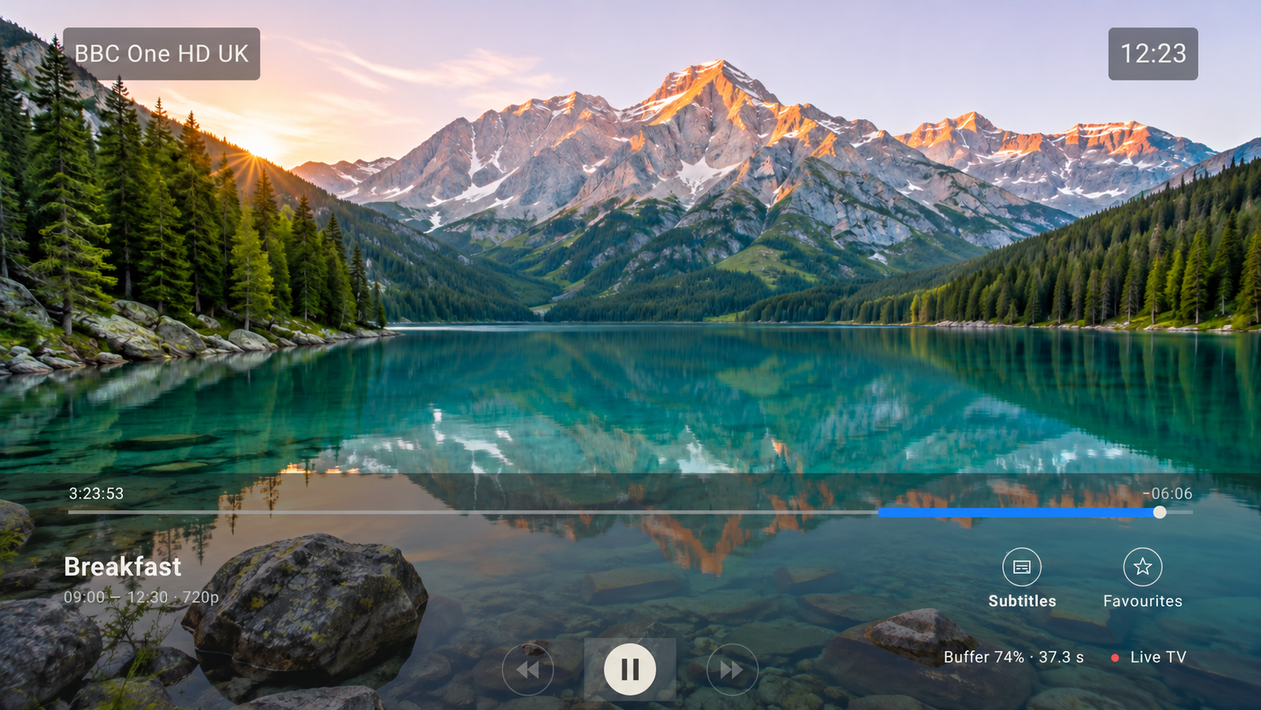
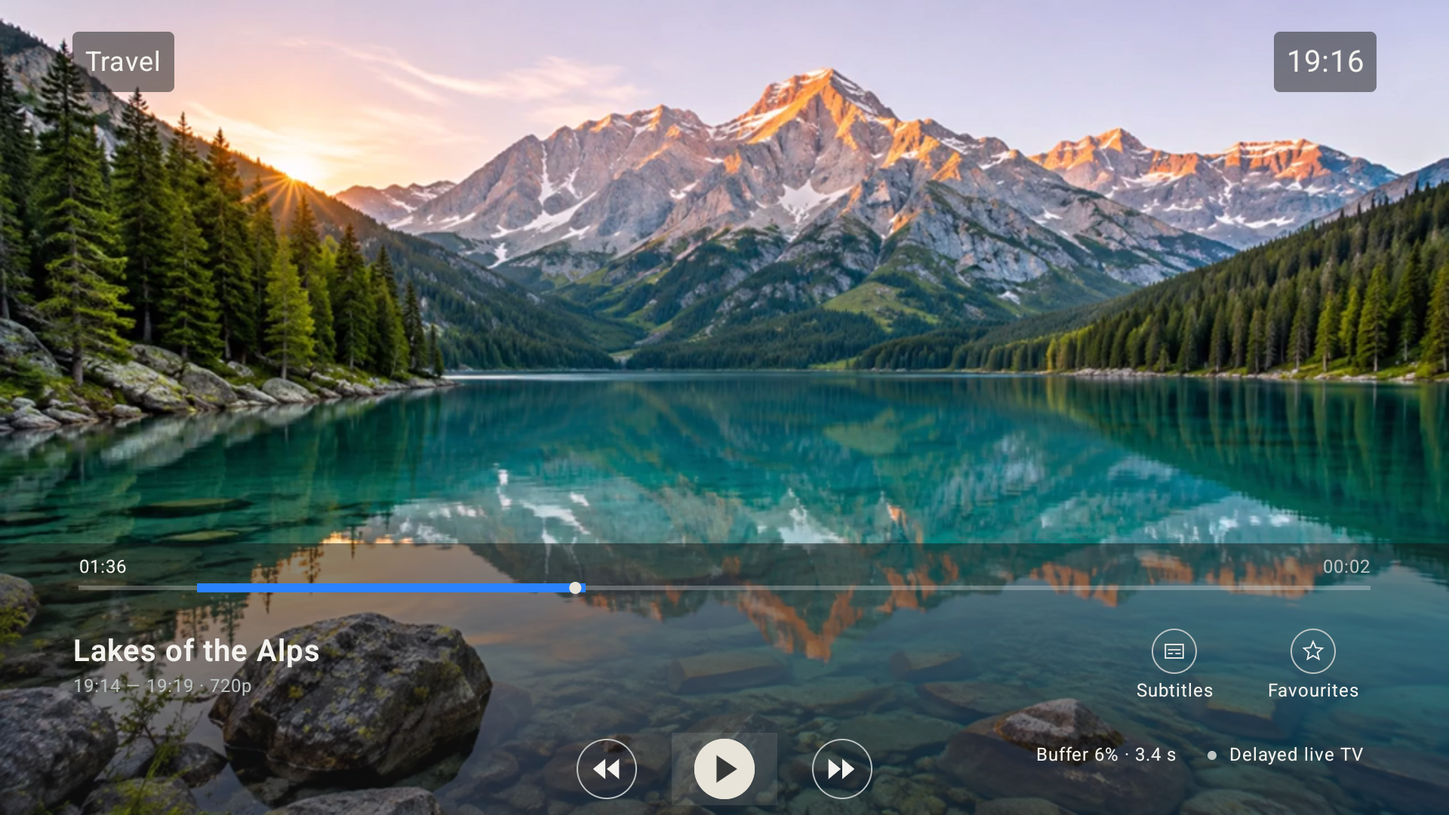
Update site for 0.9.3 with recent channels and timeline seeking

diff --git a/site/app.js b/site/app.js
@@ -20,25 +20,27 @@ const icons = {
 const icon = name => `<svg viewBox="0 0 24 24" fill="none" stroke="currentColor" stroke-width="1.6" stroke-linecap="round" stroke-linejoin="round" aria-hidden="true">${icons[name] || icons.screen}</svg>`;
 const content = {
  ru: {
- title:'TV Wave — ваши каналы на большом экране', subtitle:'Плеер для вашего телевизора', guide:'Обзор приложения', navSearch:'Найти раздел…', navEmpty:'Раздел не найден', navGroups:['Знакомство','Как пользоваться'], nav:['Обзор','Скриншоты','Возможности','Начало работы','Управление пультом','Резервная копия','Вопросы и ответы','Скачать приложение'], open:'Открытый исходный код', sideNote:'Свой плейлист. Свой телевизор.', menu:'Меню', platform:'ANDROID TV / GOOGLE TV', hero:'Ваши каналы.<br><span>На большом экране.</span>', lead:'TV Wave — IPTV-плеер с телегидом, паузой и перемоткой эфира, архивом передач и управлением с пульта. Подключите свой плейлист и выбирайте, что смотреть.', download:'Скачать APK', explore:'Посмотреть интерфейс', downloadNote:'Бесплатно · универсальный APK · без аккаунта TV Wave', tabs:['Телегид','Плеер','Первый запуск'], galleryHint:'Нажмите на экран, чтобы увеличить', captions:['Каналы, программа передач и живое видео — на одном экране.','Пауза, перемотка, субтитры и избранное под рукой.','Добавьте плейлист или восстановите настройки из копии.'], enlarge:'Увеличить скриншот', close:'Закрыть', notice:'TV Wave не содержит каналов и подписок. Для просмотра нужен ваш плейлист и право доступа к его содержимому.', featuresTitle:'Всё, что нужно для просмотра', featuresMeta:'Для управления нужен только пульт.', features:[['grid','Телегид рядом с эфиром','Читайте описание и листайте расписание, пока канал продолжает играть в маленьком окне.'],['archive','Вернуться к пропущенному','Открывайте запись, начинайте передачу сначала и возвращайтесь в эфир. Архив должен поддерживаться вашим провайдером.'],["pause","Пауза и перемотка эфира","Timeshift сохраняет часть трансляции на телевизоре. Ставьте эфир на паузу и перематывайте сохранённый участок шагами по 5 секунд."],['search','Поиск каналов и передач','Ищите по названию, повторяйте недавние запросы и смотрите, доступна ли найденная передача в записи.'],["bell","Напоминания о передачах","Выберите будущую передачу в телегиде или поиске. Пока TV Wave открыт, напоминание подскажет, когда она начнётся, и поможет перейти на канал."],['phone','Передача ссылок с телефона','Отсканируйте QR-код на телевизоре и отправьте адрес плейлиста или EPG. Телефон и ТВ должны быть в одной сети.'],['settings','Интерфейс под вас','Настройте масштаб, выберите язык, добавьте любимые каналы в избранное. Все действия доступны с пульта.'],["grid","Телепрограмма и актуальные каналы","Подключите свои источники EPG, задайте приоритет и соответствия каналов. Расписание и плейлисты по ссылке обновляются вместе; отдельный плейлист можно обновить вручную."]], startTitle:'От установки до первого канала', startIntro:'Понадобятся Android TV или приставка, интернет и плейлист вашего IPTV-провайдера.', steps:[['Установите TV Wave','Скачайте APK, перенесите на телевизор и откройте файл для установки. При первом запуске выберите язык.'],['Добавьте плейлист','Вставьте ссылку M3U/M3U8, выберите файл или передайте адрес с телефона по QR-коду.'],['Подключите телепрограмму','Добавьте адрес XMLTV или XMLTV.GZ в настройках EPG. После загрузки расписание появится рядом с каналами.']], remoteTitle:'Уже знакомый вам пульт', remoteIntro:'Стрелки, OK и «Назад». Не нужно подключать мышь или разбираться в жестах.', remoteRows:[['↑ ↓','Выбрать канал или пункт меню'],['← →','Перейти между разделами и передачами'],['OK','Открыть выбранное или начать просмотр'],['Назад','Вернуться к предыдущему экрану']], backupEyebrow:'Резервная копия', backupTitle:'Настроили один раз.<br>Сохранили в копию.', backupText:'Перенесите настройки на другой телевизор или восстановите их после переустановки. Резервную копию можно открыть сразу при первом запуске.', backupNote:'Расписание передач загрузится заново. История поиска, список напоминаний и видео из буфера Timeshift в копию не входят.', backupItems:['Плейлисты','Адреса телепрограмм','Избранное и настройки','Ручные соответствия EPG'], faqTitle:'Перед установкой', faqs:[['Здесь уже есть телеканалы?','Нет. TV Wave — плеер для ваших источников. Каналы, доступ к ним и архив предоставляет ваш IPTV-провайдер.'],["Чем Timeshift отличается от архива?","Timeshift временно сохраняет эфир на телевизоре и позволяет вернуться только к тому, что накопилось во время просмотра. Размер буфера — от 256 МБ до 2 ГБ; при заполнении удаляются старые фрагменты. При смене канала или завершении просмотра буфер очищается. Для более ранних передач нужен архив провайдера. Если поток не поддерживает Timeshift, приложение продолжает прямой эфир."],['Почему архив доступен не у всех передач?','Наличие и срок хранения записей зависят от провайдера и канала. Даже если канал поддерживает архив, отдельная запись может быть недоступна на сервере.'],["Зачем приложению доступ к файлам?","Он нужен для выбора плейлиста из файла, сохранения и восстановления резервных копий. Когда TV Wave запросит разрешение, нажмите «Разрешить доступ», предоставьте его в системном окне или настройках Android и вернитесь в приложение."],['Как обновлять приложение?','Есть два способа: скачать tvwave.apk из GitHub Releases и открыть его на телевизоре или перейти в «Настройки → Обновление TV Wave», проверить наличие новой версии и нажать «Обновить». Подтвердите установку в Android. При обновлении плейлисты и настройки сохраняются.'],['Можно ли добавить другой язык?','Да. Переводы хранятся в отдельных JSON-файлах. Скопируйте английский перевод, переведите строки и предложите изменение в репозитории на GitHub.']], downloadTitle:'Попробуйте на своём ТВ', downloadText:'Скачайте последнюю версию из GitHub Releases. Один APK для телевизоров и приставок на Android.', releases:'Все версии', footer:'TV Wave · IPTV-плеер с открытым кодом', issues:'Сообщить об ошибке', skip:'К содержимому'
+ title:'TV Wave — ваши каналы на большом экране', subtitle:'Плеер для вашего телевизора', guide:'Обзор приложения', navSearch:'Найти раздел…', navEmpty:'Раздел не найден', navGroups:['Знакомство','Как пользоваться'], nav:['Обзор','Скриншоты','Возможности','Начало работы','Управление пультом','Резервная копия','Вопросы и ответы','Скачать приложение'], open:'Открытый исходный код', sideNote:'Свой плейлист. Свой телевизор.', menu:'Меню', platform:'ANDROID TV / GOOGLE TV', hero:'Ваши каналы.<br><span>На большом экране.</span>', lead:'TV Wave — IPTV-плеер с телегидом, паузой и перемоткой эфира, архивом передач и управлением с пульта. Подключите свой плейлист и выбирайте, что смотреть.', download:'Скачать APK', explore:'Посмотреть интерфейс', downloadNote:'Бесплатно · универсальный APK · без аккаунта TV Wave', tabs:['Телегид','Плеер','Первый запуск'], galleryHint:'Нажмите на экран, чтобы увеличить', captions:['Каналы, программа передач и живое видео — на одном экране.','Пауза, перемотка, субтитры и избранное под рукой.','Добавьте плейлист или восстановите настройки из копии.'], enlarge:'Увеличить скриншот', close:'Закрыть', notice:'TV Wave не содержит каналов и подписок. Для просмотра нужен ваш плейлист и право доступа к его содержимому.', featuresTitle:'Всё, что нужно для просмотра', featuresMeta:'Для управления нужен только пульт.', features:[['grid','Телегид рядом с эфиром','Читайте описание и листайте расписание, пока канал продолжает играть в маленьком окне.'],['archive','Вернуться к пропущенному','Открывайте запись, начинайте передачу сначала и возвращайтесь в эфир. Архив должен поддерживаться вашим провайдером.'],["pause","Пауза и перемотка эфира","Ставьте эфир на паузу. На шкале можно выбрать момент с шагом в минуту, а кнопками перемотки — сдвинуться на пять секунд."],['screen','Недавние каналы','Нажмите ↓ во время просмотра, чтобы выбрать один из недавно открытых каналов прямо поверх эфира.'],['search','Поиск каналов и передач','Ищите по названию, повторяйте недавние запросы и смотрите, доступна ли найденная передача в записи.'],["bell","Напоминания о передачах","Выберите будущую передачу в телегиде или поиске. Пока TV Wave открыт, напоминание подскажет, когда она начнётся, и поможет перейти на канал."],['phone','Передача ссылок с телефона','Отсканируйте QR-код на телевизоре и отправьте адрес плейлиста или EPG. Телефон и ТВ должны быть в одной сети.'],['settings','Интерфейс под вас','Настройте масштаб, выберите язык, добавьте любимые каналы в избранное. Все действия доступны с пульта.'],["grid","Телепрограмма и актуальные каналы","Подключите свои источники EPG, задайте приоритет и соответствия каналов. Расписание и плейлисты по ссылке обновляются вместе; отдельный плейлист можно обновить вручную."]], startTitle:'От установки до первого канала', startIntro:'Понадобятся Android TV или приставка, интернет и плейлист вашего IPTV-провайдера.', steps:[['Установите TV Wave','Скачайте APK, перенесите на телевизор и откройте файл для установки. При первом запуске выберите язык.'],['Добавьте плейлист','Вставьте ссылку M3U/M3U8, выберите файл или передайте адрес с телефона по QR-коду.'],['Подключите телепрограмму','Добавьте адрес XMLTV или XMLTV.GZ в настройках EPG. После загрузки расписание появится рядом с каналами.']], remoteTitle:'Уже знакомый вам пульт', remoteIntro:'Стрелки, OK и «Назад». Не нужно подключать мышь или разбираться в жестах.', remoteRows:[["↑ ↓","В телегиде выбирают канал. В полноэкранном режиме со скрытой панелью ↓ открывает недавние каналы, ↑ оставляет эфир на экране."],["← →","В недавних каналах выбирают карточку. При редактировании позиции на шкале сдвигают её на одну минуту."],["ОК","Открывает панель плеера, включает выбранный канал или подтверждает переход на шкале."],["Назад","Закрывает список недавних каналов. При выборе позиции на шкале отменяет перемотку."],["↓","Со шкалы переводит фокус на паузу. С нижнего ряда кнопок открывает недавние каналы."],["Долгое ОК","На карточке недавнего канала открывает подтверждение удаления из истории."]], backupEyebrow:'Резервная копия', backupTitle:'Настроили один раз.<br>Сохранили в копию.', backupText:'Перенесите настройки на другой телевизор или восстановите их после переустановки. Резервную копию можно открыть сразу при первом запуске.', backupNote:'Расписание передач загрузится заново. История поиска, список напоминаний и видео из буфера Timeshift в копию не входят.', backupItems:['Плейлисты','Адреса телепрограмм','Избранное и настройки','Ручные соответствия EPG'], faqTitle:'Перед установкой', faqs:[['Здесь уже есть телеканалы?','Нет. TV Wave — плеер для ваших источников. Каналы, доступ к ним и архив предоставляет ваш IPTV-провайдер.'],["Чем Timeshift отличается от архива?","Timeshift временно сохраняет эфир на телевизоре и позволяет вернуться только к тому, что накопилось во время просмотра. Размер буфера — от 256 МБ до 2 ГБ; при заполнении удаляются старые фрагменты. При смене канала или завершении просмотра буфер очищается. Для более ранних передач нужен архив провайдера. Если поток не поддерживает Timeshift, приложение продолжает прямой эфир."],['Почему архив доступен не у всех передач?','Наличие и срок хранения записей зависят от провайдера и канала. Даже если канал поддерживает архив, отдельная запись может быть недоступна на сервере.'],["Зачем приложению доступ к файлам?","Он нужен для выбора плейлиста из файла, сохранения и восстановления резервных копий. Когда TV Wave запросит разрешение, нажмите «Разрешить доступ», предоставьте его в системном окне или настройках Android и вернитесь в приложение."],['Как обновлять приложение?','Есть два способа: скачать tvwave.apk из GitHub Releases и открыть его на телевизоре или перейти в «Настройки → Обновление TV Wave», проверить наличие новой версии и нажать «Обновить». Подтвердите установку в Android. При обновлении плейлисты и настройки сохраняются.'],['Можно ли добавить другой язык?','Да. Переводы хранятся в отдельных JSON-файлах. Скопируйте английский перевод, переведите строки и предложите изменение в репозитории на GitHub.']], downloadTitle:'Попробуйте на своём ТВ', downloadText:'Скачайте последнюю версию из GitHub Releases. Один APK для телевизоров и приставок на Android.', releases:'Все версии', footer:'TV Wave · IPTV-плеер с открытым кодом', issues:'Сообщить об ошибке', skip:'К содержимому'
  },
  en: {
- title:'TV Wave — your channels on the big screen', subtitle:'A player for your television', guide:'App overview', navSearch:'Find a section…', navEmpty:'No sections found', navGroups:['Discover','Get started'], nav:['Overview','Screenshots','Features','Getting started','Remote control','Backup','Questions & answers','Download'], open:'Open source', sideNote:'Your playlist. Your television.', menu:'Menu', platform:'ANDROID TV / GOOGLE TV', hero:'Your channels.<br><span>On the big screen.</span>', lead:'TV Wave is an IPTV player with a programme guide, live TV pause and rewind, catch-up and remote control navigation. Add your playlist and choose what to watch.', download:'Download APK', explore:'Explore the interface', downloadNote:'Free · universal APK · no TV Wave account', tabs:['TV guide','Player','First launch'], galleryHint:'Click the screen to enlarge', captions:['Channels, programme listings and live video, together.','Pause, seek, subtitles and favourites within reach.','Add a playlist or restore your settings from a backup.'], enlarge:'Enlarge screenshot', close:'Close', notice:'TV Wave does not include channels or subscriptions. You need your own playlist and permission to access its content.', featuresTitle:'Made for watching TV', featuresMeta:'All you need is your remote.', features:[['grid','Browse while you watch','Read descriptions and explore the schedule while your channel keeps playing in a small preview.'],['archive','Catch up on missed shows','Play a recording, restart a programme or return to live TV. Catch-up requires support from your provider.'],["pause","Pause and rewind live TV","Timeshift stores part of the broadcast on your TV. Pause live playback and seek through the saved range in 5-second steps."],['search','Search channels and programmes','Search by name, repeat recent searches and see whether a programme is available as a recording.'],["bell","Programme reminders","Choose an upcoming show in the guide or search. While TV Wave is open, a reminder lets you know it is about to start and offers a shortcut to the channel."],['phone','Send links from your phone','Scan the QR code on your TV and send a playlist or EPG URL. Both devices need to be on the same network.'],['settings','Make it comfortable','Adjust the interface scale, choose a language and save favourite channels. Navigate everything with your remote.'],["grid","Programme guides and channel updates","Add your own EPG sources, set their priority and match channels. Listings and URL playlists refresh together; you can also update an individual playlist manually."]], startTitle:'From installation to your first channel', startIntro:'You need an Android TV or TV box, an internet connection and a playlist from your IPTV provider.', steps:[['Install TV Wave','Download the APK, transfer it to your TV and open it to install. Choose your language on first launch.'],['Add your playlist','Paste an M3U/M3U8 URL, choose a file or send the address from your phone using a QR code.'],['Connect a programme guide','Add an XMLTV or XMLTV.GZ URL in the EPG settings. Once loaded, listings appear next to your channels.']], remoteTitle:'The remote you already know', remoteIntro:'Arrow keys, OK and Back. No mouse to connect and no gestures to learn.', remoteRows:[['↑ ↓','Choose a channel or menu item'],['← →','Move between sections and programmes'],['OK','Open a selection or start watching'],['Back','Return to the previous screen']], backupEyebrow:'Backup & restore', backupTitle:'Set it up once.<br>Keep a backup.', backupText:'Move your settings to another TV or restore them after reinstalling. You can open a backup directly on first launch.', backupNote:'Programme listings are downloaded again. Search history, programme reminders and Timeshift video are not included in backups.', backupItems:['Playlists','Programme guide URLs','Favourites and settings','Manual EPG matches'], faqTitle:'Before you install', faqs:[['Are TV channels included?','No. TV Wave is a player for sources you add yourself. Your IPTV provider supplies the channels, access and catch-up service.'],["How is Timeshift different from catch-up?","Timeshift temporarily stores live video on your TV, so you can only rewind footage collected while watching. The buffer holds 256 MB to 2 GB; older segments are removed as it fills. It is cleared when you switch channels or finish watching. Earlier programmes require your provider’s catch-up service. If a stream does not support Timeshift, the app continues live playback."],['Why are some recordings unavailable?','Availability and retention depend on your provider and the channel. Even when a channel supports catch-up, a particular recording may be unavailable on the server.'],["Why does the app need file access?","File access is needed to select a playlist file and to save or restore backups. When TV Wave asks for permission, choose Allow access, grant it in the Android dialog or settings, then return to the app."],['How do I update the app?','Download tvwave.apk from GitHub Releases and open it on your TV, or go to Settings → TV Wave updates, check for a new version and choose Update. Confirm installation in Android. Your playlists and settings are preserved when updating.'],['Can I contribute a translation?','Yes. Translations are stored in individual JSON files. Copy the English translation, translate the strings and propose your changes on GitHub.']], downloadTitle:'Try it on your TV', downloadText:'Get the latest version from GitHub Releases. One APK for Android televisions and TV boxes.', releases:'All releases', footer:'TV Wave · an open-source IPTV player', issues:'Report an issue', skip:'Skip to content'
+ title:'TV Wave — your channels on the big screen', subtitle:'A player for your television', guide:'App overview', navSearch:'Find a section…', navEmpty:'No sections found', navGroups:['Discover','Get started'], nav:['Overview','Screenshots','Features','Getting started','Remote control','Backup','Questions & answers','Download'], open:'Open source', sideNote:'Your playlist. Your television.', menu:'Menu', platform:'ANDROID TV / GOOGLE TV', hero:'Your channels.<br><span>On the big screen.</span>', lead:'TV Wave is an IPTV player with a programme guide, live TV pause and rewind, catch-up and remote control navigation. Add your playlist and choose what to watch.', download:'Download APK', explore:'Explore the interface', downloadNote:'Free · universal APK · no TV Wave account', tabs:['TV guide','Player','First launch'], galleryHint:'Click the screen to enlarge', captions:['Channels, programme listings and live video, together.','Pause, seek, subtitles and favourites within reach.','Add a playlist or restore your settings from a backup.'], enlarge:'Enlarge screenshot', close:'Close', notice:'TV Wave does not include channels or subscriptions. You need your own playlist and permission to access its content.', featuresTitle:'Made for watching TV', featuresMeta:'All you need is your remote.', features:[['grid','Browse while you watch','Read descriptions and explore the schedule while your channel keeps playing in a small preview.'],['archive','Catch up on missed shows','Play a recording, restart a programme or return to live TV. Catch-up requires support from your provider.'],["pause","Pause and rewind live TV","Pause live TV. Move through the recording by one minute on the timeline or by five seconds with the skip buttons."],['screen','Recent channels','Press Down while watching to choose a recently watched channel without leaving fullscreen playback.'],['search','Search channels and programmes','Search by name, repeat recent searches and see whether a programme is available as a recording.'],["bell","Programme reminders","Choose an upcoming show in the guide or search. While TV Wave is open, a reminder lets you know it is about to start and offers a shortcut to the channel."],['phone','Send links from your phone','Scan the QR code on your TV and send a playlist or EPG URL. Both devices need to be on the same network.'],['settings','Make it comfortable','Adjust the interface scale, choose a language and save favourite channels. Navigate everything with your remote.'],["grid","Programme guides and channel updates","Add your own EPG sources, set their priority and match channels. Listings and URL playlists refresh together; you can also update an individual playlist manually."]], startTitle:'From installation to your first channel', startIntro:'You need an Android TV or TV box, an internet connection and a playlist from your IPTV provider.', steps:[['Install TV Wave','Download the APK, transfer it to your TV and open it to install. Choose your language on first launch.'],['Add your playlist','Paste an M3U/M3U8 URL, choose a file or send the address from your phone using a QR code.'],['Connect a programme guide','Add an XMLTV or XMLTV.GZ URL in the EPG settings. Once loaded, listings appear next to your channels.']], remoteTitle:'The remote you already know', remoteIntro:'Arrow keys, OK and Back. No mouse to connect and no gestures to learn.', remoteRows:[["↑ ↓","In the guide, select a channel. In fullscreen with the controls hidden, Down opens recent channels. Up leaves the broadcast on screen."],["← →","Choose a card in recent channels. When editing a position on the timeline, move it by one minute."],["OK","Show the player controls, watch the selected channel or confirm a seek on the timeline."],["Back","Close recent channels or cancel a position selected on the timeline."],["↓","From the timeline, move focus to Pause. From the bottom row of controls, open recent channels."],["Hold OK","On a recent channel, open the confirmation to remove it from history."]], backupEyebrow:'Backup & restore', backupTitle:'Set it up once.<br>Keep a backup.', backupText:'Move your settings to another TV or restore them after reinstalling. You can open a backup directly on first launch.', backupNote:'Programme listings are downloaded again. Search history, programme reminders and Timeshift video are not included in backups.', backupItems:['Playlists','Programme guide URLs','Favourites and settings','Manual EPG matches'], faqTitle:'Before you install', faqs:[['Are TV channels included?','No. TV Wave is a player for sources you add yourself. Your IPTV provider supplies the channels, access and catch-up service.'],["How is Timeshift different from catch-up?","Timeshift temporarily stores live video on your TV, so you can only rewind footage collected while watching. The buffer holds 256 MB to 2 GB; older segments are removed as it fills. It is cleared when you switch channels or finish watching. Earlier programmes require your provider’s catch-up service. If a stream does not support Timeshift, the app continues live playback."],['Why are some recordings unavailable?','Availability and retention depend on your provider and the channel. Even when a channel supports catch-up, a particular recording may be unavailable on the server.'],["Why does the app need file access?","File access is needed to select a playlist file and to save or restore backups. When TV Wave asks for permission, choose Allow access, grant it in the Android dialog or settings, then return to the app."],['How do I update the app?','Download tvwave.apk from GitHub Releases and open it on your TV, or go to Settings → TV Wave updates, check for a new version and choose Update. Confirm installation in Android. Your playlists and settings are preserved when updating.'],['Can I contribute a translation?','Yes. Translations are stored in individual JSON files. Copy the English translation, translate the strings and propose your changes on GitHub.']], downloadTitle:'Try it on your TV', downloadText:'Get the latest version from GitHub Releases. One APK for Android televisions and TV boxes.', releases:'All releases', footer:'TV Wave · an open-source IPTV player', issues:'Report an issue', skip:'Skip to content'
  }
 };
-const allShots = ['guide','player','setup','search','programme','settings','appearance','epg','backup','update'];
+const allShots = ['guide','player','recent','timeline','setup','search','programme','settings','appearance','epg','backup','update'];
 const shots = allShots.filter(id => !['setup','appearance','backup'].includes(id));
 const tutorialShots = new Set([...allShots,'playlists','timeshift','reminders']);
 Object.assign(content.ru, {
- tabs:['Телегид','Плеер','Первый запуск','Поиск','О передаче','Настройки','Оформление','Телепрограммы','Бекап','Обновление'],
- captions:['Каналы, расписание и видео — на одном экране.','Управление просмотром и информация о потоке.','Подключение своего плейлиста или восстановление из копии.','Поиск по каналам и названиям передач.','Описание выбранной передачи и расписание канала.','Все настройки собраны в боковом меню.','Масштаб интерфейса и выбор языка.','Источники расписания и автоматическое обновление.','Сохранение настроек и восстановление из файла.','Новая версия и список изменений из GitHub.'],
+ tabs:['Телегид','Плеер','Недавние каналы','Перемотка','Первый запуск','Поиск','О передаче','Настройки','Оформление','Телепрограммы','Бекап','Обновление'],
+ captions:['Каналы, расписание и видео — на одном экране.','Кнопки перемотки, пауза и переход к прямому эфиру.','Панель недавних каналов поверх эфира.','Выбор позиции на шкале записи перед подтверждением перехода.','Подключение своего плейлиста или восстановление из копии.','Поиск по каналам и названиям передач.','Описание выбранной передачи и расписание канала.','Все настройки собраны в боковом меню.','Масштаб интерфейса и выбор языка.','Источники расписания и автоматическое обновление.','Сохранение настроек и восстановление из файла.','Новая версия и список изменений из GitHub.'],
  previous:'Предыдущий скриншот',next:'Следующий скриншот',howTitle:'Как пользоваться TV Wave',howIntro:'Короткие маршруты по меню. Откройте картинку, чтобы рассмотреть детали.',
  tutorials:[
  ['setup','Подключить свой плейлист','Первый запуск → Добавить плейлист',['Выберите «Ссылка» или «Файл». Поддерживаются M3U и M3U8.','Вставьте адрес или выберите файл, затем нажмите «Добавить».','Для передачи ссылки с телефона выберите «С телефона по QR». Оба устройства должны быть в одной сети.','При выборе файла приложение может запросить доступ. Нажмите «Разрешить доступ», предоставьте разрешение в Android и вернитесь в TV Wave.']],
  ["playlists","Обновить каналы из плейлиста","Настройки → Плейлисты → нужный плейлист → Обновить каналы",["Плейлисты по ссылке обновляются вместе с телепрограммой — автоматически по расписанию EPG или при её ручном обновлении.","Чтобы обновить отдельный плейлист, откройте его в настройках и нажмите «Обновить каналы». Если загрузка не удалась, прежний список сохранится.","Плейлисты из файлов не обновляются по сети. Для изменения списка выберите актуальный файл через «Изменить»."]],
  ['epg','Добавить программу передач','Настройки → Телепрограммы → Добавить',['Вставьте адрес XMLTV или XMLTV.GZ и сохраните источник.','Телегид и поиск показывают всё доступное расписание для каналов плейлиста. Если источник пришлёт более короткое расписание, ранее загруженные передачи за его пределами сохранятся. Вместе с телепрограммой обновятся плейлисты, добавленные по ссылке.','Если программа не нашлась, откройте «Соответствия каналов» и выберите соответствие вручную. Интервал обновления задаётся на этом же экране.']],
  ['guide','Посмотреть, что идёт сейчас и дальше','Телегид → канал → вправо',['Выбирайте канал стрелками вверх и вниз. OK включает просмотр.','Нажмите вправо, чтобы перейти к передачам. Влево и вправо можно листать расписание.','OK на передаче открывает её описание. Видео в миниатюре продолжает играть.']],
- ["timeshift","Поставить эфир на паузу и перемотать","Настройки → Воспроизведение → Timeshift",["Включите Timeshift и выберите объём буфера от 256 МБ до 2 ГБ. Стрелки влево и вправо меняют его с шагом 256 МБ.","Пока вы смотрите канал, видео сохраняется на телевизоре. Синий участок шкалы показывает доступную для перемотки часть эфира.","В плеере выберите паузу или кнопки перемотки: каждый шаг перемещает просмотр на 5 секунд назад или вперёд в пределах сохранённого участка. Для возврата к трансляции выберите прямой эфир.","Когда буфер заполнится, старые фрагменты удалятся. При смене канала или завершении просмотра запись очищается. Работа Timeshift зависит от потока; для более ранних передач нужен архив провайдера."]],
+ ["recent","Вернуться к недавнему каналу","Полный экран → ↓ → Недавние каналы",["Когда кнопки плеера скрыты, нажмите ↓. Поверх эфира появятся каналы, которые вы смотрели раньше.","Стрелками ← и → выберите канал. Нажмите ОК, чтобы включить его, или ↑ либо «Назад», чтобы закрыть список и продолжить просмотр.","Чтобы убрать канал из истории, удерживайте ОК на его карточке и выберите «Удалить». Канал останется в плейлисте."]],
+ ["timeshift","Поставить эфир на паузу и перемотать","Настройки → Воспроизведение → Timeshift",["Включите Timeshift и выберите объём буфера от 256 МБ до 2 ГБ. Стрелки влево и вправо меняют его с шагом 256 МБ.","Пока вы смотрите канал, видео сохраняется на телевизоре. Синий участок шкалы показывает, какую часть эфира можно перемотать. Запись доступна и у каналов без телепрограммы.","В плеере выберите паузу или кнопки перемотки: каждый шаг перемещает просмотр на 5 секунд назад или вперёд в пределах сохранённого участка. Для возврата к трансляции выберите прямой эфир.","Когда буфер заполнится, старые фрагменты удалятся. При смене канала или завершении просмотра запись очищается. Работа Timeshift зависит от потока; для более ранних передач нужен архив провайдера."]],
+ ["timeline","Перемотать на минуту","Плеер → Шкала времени → ОК",["Откройте плеер кнопкой ОК. С кнопки паузы нажмите ↑, чтобы выделить шкалу, затем ОК, чтобы выбрать позицию.","Каждое нажатие ← или → сдвигает выбранный момент на одну минуту в пределах доступной записи. В прямом эфире перемотка вперёд доступна после паузы или возврата назад.","На снимке одно нажатие ← сдвинуло позицию с 01:36 на 00:36. Нажмите ОК, чтобы перейти к выбранному моменту, или «Назад», чтобы отменить. Кнопки перемотки в нижнем ряду дают шаг в пять секунд."]],
  ['programme','Открыть пропущенную передачу','Телегид → передача → OK → OK',['Откройте описание нужной передачи и выберите её в нижней ленте.','Нажмите OK для запуска записи. Для текущей передачи можно выбрать просмотр сначала или прямой эфир.','Доступность записи и глубина архива зависят от провайдера. В плеере можно перематывать запись и вернуться в эфир.']],
  ['search','Найти канал или передачу','Меню слева → Поиск',['Введите название и подтвердите запрос галочкой на экранной клавиатуре или Enter. Поиск выполняется по каналам и загруженной телепрограмме.','Сначала показываются каналы, затем до 200 передач от самых поздних к ранним. Чтобы добавить следующие 200 в тот же список, нажмите «Продолжить поиск дальше». Информация о выбранном результате находится справа.','Короткое OK на недавнем запросе повторяет поиск. Удержание OK открывает подтверждение удаления запроса.']],
  ["reminders","Не пропустить будущую передачу","Телегид или Поиск → будущая передача → удерживать OK",["Выберите будущую передачу, удерживайте OK и подтвердите «Напомнить».","В разделе «Напоминания» в левом меню можно посмотреть список, прочитать описание или удалить напоминание.","В «Настройки → Оформление → Когда напоминать» выберите один или несколько интервалов: за 5, 10, 15, 30 минут или 1 час.","Пока TV Wave открыт, перед началом передачи появится уведомление. Нажмите «Перейти на канал», чтобы начать просмотр."]],
@@ -48,15 +50,17 @@ Object.assign(content.ru, {
  ]
 });
 Object.assign(content.en, {
- tabs:['TV guide','Player','First launch','Search','Programme details','Settings','Appearance','Programme guides','Backup','Updates'],
- captions:['Channels, listings and video on one screen.','Playback controls and stream information.','Add your own playlist or restore a backup.','Search channel names and programme titles.','Programme description and the channel schedule.','All settings in a side panel.','Interface scale and language selection.','Programme sources and automatic updates.','Save your settings or restore them from a file.','An available update and release notes from GitHub.'],
+ tabs:['TV guide','Player','Recent channels','Timeline','First launch','Search','Programme details','Settings','Appearance','Programme guides','Backup','Updates'],
+ captions:['Channels, listings and video on one screen.','Skip, pause and return to live TV.','Recent channels over the current broadcast.','A position selected on the recorded timeline before seeking.','Add your own playlist or restore a backup.','Search channel names and programme titles.','Programme description and the channel schedule.','All settings in a side panel.','Interface scale and language selection.','Programme sources and automatic updates.','Save your settings or restore them from a file.','An available update and release notes from GitHub.'],
  previous:'Previous screenshot',next:'Next screenshot',howTitle:'Using TV Wave',howIntro:'Short routes through the menus. Open an image to see the details.',
  tutorials:[
  ['setup','Connect your playlist','First launch → Add playlist',['Choose URL or File. M3U and M3U8 are supported.','Paste a URL or select a file, then choose Add.','To send a URL from your phone, choose the QR option. Both devices must be on the same network.','When selecting a file, the app may request file access. Choose Allow access, grant permission in Android and return to TV Wave.']],
  ["playlists","Refresh channels from your playlist","Settings → Playlists → select a playlist → Update channels",["URL playlists refresh alongside the programme guide, both on the automatic EPG schedule and when you update the guide manually.","To update one playlist, open it in Settings and choose Update channels. If the download fails, the previous channel list is preserved.","File-based playlists do not refresh over the network. Choose an up-to-date file through Edit to change their channel list."]],
  ['epg','Add a programme guide','Settings → Programme guides → Add',['Paste an XMLTV or XMLTV.GZ URL and save the source.','The guide and search show the full schedule supplied for your playlist channels. If an update covers fewer days, previously downloaded listings beyond that range remain available. Playlists added by URL refresh with the guide.','If a channel has no listings, use Channel matching to assign it manually. You can also set the update interval here.']],
  ['guide','See what is on now and next','TV guide → channel → Right',['Use Up and Down to select a channel. Press OK to watch.','Press Right to move to programmes. Use Left and Right to browse the schedule.','Press OK on a programme to read its description. Video keeps playing in the preview.']],
- ["timeshift","Pause and rewind live TV","Settings → Playback → Timeshift",["Enable Timeshift and choose a buffer size from 256 MB to 2 GB. Left and Right adjust it in 256 MB steps.","While you watch a channel, video is stored on your TV. The blue range on the timeline shows the footage available for seeking.","In the player, select pause or use the seek buttons to move 5 seconds back or forward within the saved range. Select live TV to return to the broadcast.","Older segments are removed as the buffer fills. Switching channels or finishing playback clears it. Timeshift availability depends on the stream; earlier programmes require your provider’s catch-up service."]],
+ ["recent","Return to a recent channel","Fullscreen → Down → Recent channels",["With the player controls hidden, press Down. Channels you watched earlier appear over the broadcast.","Use Left and Right to choose a channel. Press OK to watch it, or press Up or Back to close the list and keep watching.","To remove a channel from history, hold OK on its card and choose Delete. The channel stays in your playlist."]],
+ ["timeshift","Pause and rewind live TV","Settings → Playback → Timeshift",["Enable Timeshift and choose a buffer size from 256 MB to 2 GB. Left and Right adjust it in 256 MB steps.","While you watch a channel, video is stored on your TV. The blue range on the timeline shows how much of the broadcast you can seek through. Recording also works on channels without guide listings.","In the player, select pause or use the seek buttons to move 5 seconds back or forward within the saved range. Select live TV to return to the broadcast.","Older segments are removed as the buffer fills. Switching channels or finishing playback clears it. Timeshift availability depends on the stream; earlier programmes require your provider’s catch-up service."]],
+ ["timeline","Seek by one minute","Player → Timeline → OK",["Press OK to show the controls. From Pause, press Up to focus the timeline, then OK to select a position.","Each press of Left or Right moves the selected position by one minute within the available recording. You can seek forward to live TV after pausing or rewinding.","In the screenshot, one press of Left moved the position from 01:36 to 00:36. Press OK to seek there or Back to cancel. The skip buttons in the bottom row move by five seconds."]],
  ['programme','Watch a missed programme','TV guide → programme → OK → OK',['Open a programme’s details and select it in the bottom strip.','Press OK to play the recording. For a programme currently on air, choose to restart it or watch live.','Recording availability and retention depend on your provider. The player lets you seek through a recording and return to live TV.']],
  ['search','Find channels and programmes','Left menu → Search',['Enter a name and submit with the on-screen keyboard’s check mark or Enter. Search covers channels and downloaded programme listings.','Channels appear first, followed by up to 200 programmes ordered from latest to earliest. Choose Continue searching to append the next 200. Details for the selected result appear on the right.','Press OK on a recent query to search again. Hold OK to open its deletion confirmation.']],
  ["reminders","Remember an upcoming programme","TV guide or Search → upcoming programme → hold OK",["Select an upcoming programme, hold OK and confirm Remind me.","Open Reminders in the left menu to browse your list, read programme details or remove a reminder.","In Settings → Appearance → Reminder timing, choose one or more intervals: 5, 10, 15, 30 minutes or 1 hour before the start.","While TV Wave is open, a notification appears before the programme starts. Choose Go to channel to start watching."]],
@@ -77,12 +81,16 @@ let pinnedSection = null;
 let scrollFrame = 0;
 const app = document.getElementById('app');
 function navLabel(id){const oldIds=['overview','screenshots','features','start','remote','backup','faq','download'];return id==='howto'?(language==='ru'?'Возможности':'Features'):id==='features'?(language==='ru'?'Краткий обзор':'At a glance'):content[language].nav[oldIds.indexOf(id)];}
+function shotUrl(id){
+ const ext = id === 'recent' || id === 'timeline' ? 'webp' : 'png';
+ return `assets/${id}-${language}.${ext}?v=0.9.3`;
+}
 function renderTutorial(item,index,t){
  const illustrated=tutorialShots.has(item[0]);
  const steps=`<ol>${item[3].map(step=>`<li>${step}</li>`).join('')}</ol>`;
  return `<article class="tutorial${illustrated?'':' tutorial-text'}" id="howto-${item[0]}">
   <div class="tutorial-copy"><span class="eyebrow">${String(index+1).padStart(2,'0')}</span><h3>${item[1]}</h3><p class="menu-path">${item[2]}</p>${illustrated?steps:''}</div>
-  ${illustrated?`<button class="tutorial-image" data-image="${item[0]}" aria-label="${t.enlarge}: ${item[1]}"><img src="assets/${item[0]}-${language}.png?v=images-20261118-timeshift" alt="${item[1]}" width="1920" height="1080" loading="lazy"><span>${t.enlarge} ↗</span></button>`:steps}
+  ${illustrated?`<button class="tutorial-image" data-image="${item[0]}" aria-label="${t.enlarge}: ${item[1]}"><img src="${shotUrl(item[0])}" alt="${item[1]}" width="1920" height="1080" loading="lazy"><span>${t.enlarge} ↗</span></button>`:steps}
  </article>`;
 }
 function render(){
@@ -98,7 +106,7 @@ function render(){
  <button class="menu-backdrop" tabindex="-1" aria-label="${t.close}" hidden></button>
  <header class="topbar"><button class="mobile-menu" aria-expanded="false" aria-controls="navigation"><img src="assets/mark.svg" alt="">TV Wave <span>☰</span></button><div class="crumb">TV Wave</div><div class="top-actions"><a href="${repo}" target="_blank" rel="noopener">GitHub ↗</a><div class="languages" role="group" aria-label="Language"><button data-lang="ru" aria-pressed="${language==='ru'}">RU</button><button data-lang="en" aria-pressed="${language==='en'}">EN</button></div></div></header>
  <main class="main" id="main"><div class="content"><section class="hero" id="overview"><div class="hero-top"><span class="status-dot"></span>${t.platform}</div><h1>${t.hero}</h1><p class="lead">${t.lead}</p><div class="notice">${icon('info')}<span>${t.notice}</span></div><div class="actions"><a class="button primary" href="${repo}/releases/latest/download/tvwave.apk">${icon('download')}${t.download}</a></div></section>
- <section class="gallery" id="screenshots" aria-label="${t.nav[1]}"><div class="gallery-top"><div class="tabs" role="tablist" aria-label="${t.nav[1]}">${t.tabs.map((tab,i)=>`<button role="tab" id="tab-${i}" aria-controls="screen-panel" aria-selected="${i===screen}" tabindex="${i===screen?0:-1}" data-screen="${i}">${tab}</button>`).join('')}</div></div><div class="gallery-controls"><button class="gallery-arrow" data-step="-1" aria-label="${t.previous}">←</button><span id="gallery-count" aria-live="polite">${screen+1} / ${shots.length}</span><button class="gallery-arrow" data-step="1" aria-label="${t.next}">→</button></div><div id="screen-panel" role="tabpanel" aria-labelledby="tab-${screen}"><button class="screen-button" aria-label="${t.enlarge}"><img id="screen" src="assets/${shots[screen]}-${language}.png?v=images-20261118-timeshift" alt="${t.tabs[screen]} TV Wave" width="1920" height="1080"><span class="zoom-mark" aria-hidden="true">⤢</span></button><div class="gallery-caption"><span>TV Wave / ${t.tabs[screen]}</span></div></div></section>
+ <section class="gallery" id="screenshots" aria-label="${t.nav[1]}"><div class="gallery-top"><div class="tabs" role="tablist" aria-label="${t.nav[1]}">${t.tabs.map((tab,i)=>`<button role="tab" id="tab-${i}" aria-controls="screen-panel" aria-selected="${i===screen}" tabindex="${i===screen?0:-1}" data-screen="${i}">${tab}</button>`).join('')}</div></div><div class="gallery-controls"><button class="gallery-arrow" data-step="-1" aria-label="${t.previous}">←</button><span id="gallery-count" aria-live="polite">${screen+1} / ${shots.length}</span><button class="gallery-arrow" data-step="1" aria-label="${t.next}">→</button></div><div id="screen-panel" role="tabpanel" aria-labelledby="tab-${screen}"><button class="screen-button" aria-label="${t.enlarge}"><img id="screen" src="${shotUrl(shots[screen])}" alt="${t.captions[screen]}" width="1920" height="1080"><span class="zoom-mark" aria-hidden="true">⤢</span></button><div class="gallery-caption"><span>TV Wave / ${t.tabs[screen]}</span></div></div></section>
  <section class="section" id="features"><div class="section-head"><h2>${t.featuresTitle}</h2><span class="mono">${t.featuresMeta}</span></div><div class="feature-list">${t.features.map(f=>`<article class="feature">${icon(f[0])}<div><h3>${f[1]}</h3><p>${f[2]}</p></div></article>`).join('')}</div></section>
  <section class="section" id="start"><h2>${t.startTitle}</h2><div class="steps">${t.steps.map((s,i)=>`<article class="step"><div class="step-num">${i+1}</div><h3>${s[0]}</h3><p>${s[1]}</p></article>`).join('')}</div></section>
  <section class="section" id="howto"><h2>${t.howTitle}</h2><div class="tutorials">${t.tutorials.map((item,i)=>renderTutorial(item,i,t)).join('')}</div></section>
@@ -113,8 +121,8 @@ function render(){
 function selectScreen(index, focus=false){
  screen=(index+shots.length)%shots.length;const t=content[language];
  document.querySelectorAll('[data-screen]').forEach((b,i)=>{b.setAttribute('aria-selected',String(i===screen));b.tabIndex=i===screen?0:-1;if(focus&&i===screen)b.focus();});
- document.getElementById('screen').src=`assets/${shots[screen]}-${language}.png?v=images-20261118-timeshift`;
- document.getElementById('screen').alt=`${t.tabs[screen]} TV Wave`;
+ document.getElementById('screen').src=shotUrl(shots[screen]);
+ document.getElementById('screen').alt=t.captions[screen];
  document.getElementById('screen-panel').setAttribute('aria-labelledby',`tab-${screen}`);
  document.querySelector('.gallery-caption span:last-child').textContent=`TV Wave / ${t.tabs[screen]}`;
  document.getElementById('gallery-count').textContent=`${screen+1} / ${shots.length}`;
@@ -122,8 +130,8 @@ function selectScreen(index, focus=false){
 }
 function syncDialog(){
  document.querySelector('.dialog-controls').hidden=false;
- document.getElementById('dialog-image').src=`assets/${shots[screen]}-${language}.png?v=images-20261118-timeshift`;
- document.getElementById('dialog-image').alt=content[language].tabs[screen];
+ document.getElementById('dialog-image').src=shotUrl(shots[screen]);
+ document.getElementById('dialog-image').alt=content[language].captions[screen];
  document.getElementById('dialog-title').textContent=content[language].tabs[screen];
  document.getElementById('dialog-count').textContent=`${screen+1} / ${shots.length}`;
 

diff --git a/site/index.html b/site/index.html
@@ -7,7 +7,7 @@
 <title>TV Wave — ваши каналы на большом экране</title>
 <link rel="icon" href="assets/mark.svg" type="image/svg+xml">
 <link rel="stylesheet" href="style.css?v=20261118-illustrations">
-<script src="app.js?v=0.9.1" defer></script>
+<script src="app.js?v=0.9.3" defer></script>
 </head>
 <body><div id="app"></div><noscript>TV Wave — IPTV-плеер для Android TV и Google TV. <a href="https://github.com/OlegKocha/tvwave/releases/latest">Скачать приложение на GitHub</a>. Включите JavaScript для просмотра интерактивного макета.</noscript></body>
 </html>
